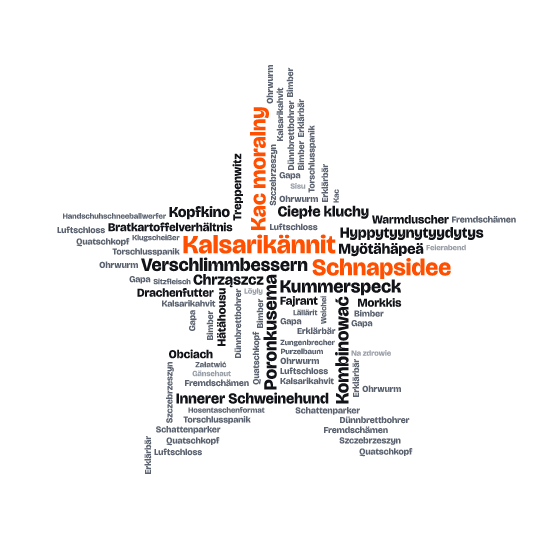
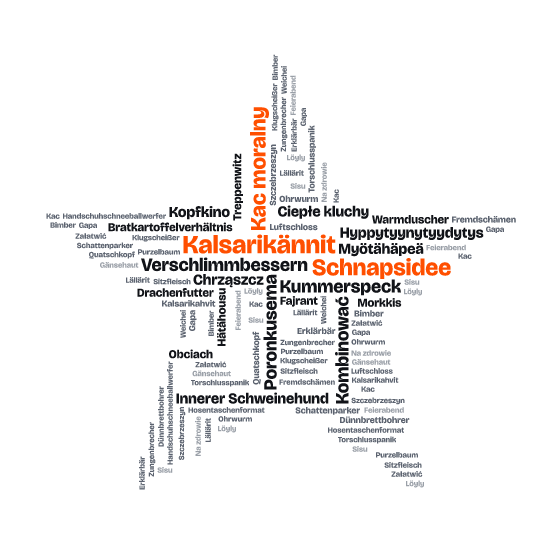
wordcloud 2.0.2: fill copies keep apart and stay smaller than their word

diff --git a/src/layout.rs b/src/layout.rs
@@ -718,6 +718,9 @@ pub fn generate(
 /// that no short word takes over.
 const MAX_COPIES: usize = 4;
 
+/// The largest a copy gets, as a share of its word's size: it reads as an echo, not a twin.
+const COPY_SIZE: f32 = 0.7;
+
 /// The empty grid with the mask's blocked cells set.
 fn blocked_grid(options: &Options, mask: Option<&MaskImage>) -> Grid {
     let (width, height) = options.grid_size();
@@ -799,22 +802,23 @@ impl Packer<'_> {
     }
 
     /// [`Options::fill`]: drop copies of the words into the gaps left after a pass. Only words
-    /// up to the median size are copied, never larger than the word itself, [`MAX_COPIES`] times
-    /// at most. Sizes run from the median down to `min_size`, lightest words first at each
-    /// size; spots are tried from the centre outwards. Returns the bits the copies took.
+    /// up to the median size are copied, [`MAX_COPIES`] times at most, each at [`COPY_SIZE`] of
+    /// the word or smaller and a quarter of the canvas away from the word and its other copies.
+    /// Sizes run from the median down to `min_size`, lightest words first at each size; spots
+    /// are tried from the centre outwards. Returns the bits the copies took.
     fn fill_gaps(&self, grid: &mut Grid, placed: &mut Vec<Placed>, scale: f32) -> Option<u32> {
         let mut relative: Vec<f32> = self.prepared.iter().map(|p| p.relative).collect();
         relative.sort_by(f32::total_cmp);
         let floor = self.options.min_size;
         let median = *relative.get(relative.len() / 2)?;
-        let mut size = (scale * median).max(floor);
+        let mut size = (COPY_SIZE * scale * median).max(floor);
         let spots = Spots::new(grid);
-        // Where each word was set last (top left, grid px): its next copy keeps away from there.
-        let mut last = vec![None; self.prepared.len()];
+        // Where each word and its copies are (top left, grid px): the next copy keeps away from
+        // all of them.
+        let mut set = vec![Vec::new(); self.prepared.len()];
         for word in placed.iter() {
-            last[word.shape] = Some((word.transformation.ox, word.transformation.oy));
+            set[word.shape].push((word.transformation.ox, word.transformation.oy));
         }
-        let mut copies = vec![0; self.prepared.len()];
         let mut bits = 0;
         loop {
             if size < floor {
@@ -822,14 +826,15 @@ impl Packer<'_> {
             }
             // Sweep the words until a whole sweep sets nothing: one copy per word and sweep, so
             // the copies of a word spread out.
-            let mut set = true;
-            while set {
-                set = false;
+            let mut placing = true;
+            while placing {
+                placing = false;
                 for (shape_index, prepared) in self.prepared.iter().enumerate().rev() {
-                    // A copy never outgrows its word, and the heavy words are not copied at all.
-                    if copies[shape_index] == MAX_COPIES
+                    // A copy stays clearly smaller than its word (down to the smallest size), and
+                    // the heavy words are not copied at all.
+                    if set[shape_index].len() > MAX_COPIES
                         || prepared.relative > median
-                        || size > scale * prepared.relative
+                        || size > (COPY_SIZE * scale * prepared.relative).max(floor)
                     {
                         continue;
                     }
@@ -838,14 +843,11 @@ impl Packer<'_> {
                     let first = shape_index % 3 == 1;
                     for rotated in [first, !first] {
                         let sprite = self.sprite(prepared, size, rotated)?;
-                        if let Some(at) = spots.find(grid, &sprite, last[shape_index]) {
-                            let copy = self.settle(grid, &sprite, at, shape_index, true);
-                            last[shape_index] =
-                                Some((copy.transformation.ox, copy.transformation.oy));
-                            placed.push(copy);
-                            copies[shape_index] += 1;
+                        if let Some(at) = spots.find(grid, &sprite, &set[shape_index]) {
+                            set[shape_index].push((at.0 as f32, at.1 as f32));
+                            placed.push(self.settle(grid, &sprite, at, shape_index, true));
                             bits += sprite.ink();
-                            set = true;
+                            placing = true;
                             break;
                         }
                     }
@@ -982,13 +984,8 @@ impl Spots {
     }
 
     /// The first spot where `sprite`, centred on it, lies inside the grid, touches nothing and
-    /// is at least a quarter of the canvas away from `away` (both top left, grid px).
-    fn find(
-        &self,
-        grid: &Grid,
-        sprite: &Sprite,
-        away: Option<(f32, f32)>,
-    ) -> Option<(usize, usize)> {
+    /// is at least a quarter of the canvas away from every point in `away` (top left, grid px).
+    fn find(&self, grid: &Grid, sprite: &Sprite, away: &[(f32, f32)]) -> Option<(usize, usize)> {
         let (width, height) = (grid.width as f32, grid.height as f32);
         let (half_width, half_height) = (sprite.width / 2, sprite.height / 2);
         self.0
@@ -996,7 +993,7 @@ impl Spots {
             .filter_map(|&(x, y)| Some((x.checked_sub(half_width)?, y.checked_sub(half_height)?)))
             .filter(|&(x, y)| x + sprite.width <= grid.width && y + sprite.height <= grid.height)
             .filter(|&(x, y)| {
-                away.is_none_or(|(ax, ay)| {
+                away.iter().all(|&(ax, ay)| {
                     let (dx, dy) = ((x as f32 - ax) / width, (y as f32 - ay) / height);
                     dx * dx + dy * dy >= 0.25 * 0.25
                 })

diff --git a/README.md b/README.md
@@ -71,8 +71,8 @@ wordcloud cloud.toml --shape examples/star.png --width 560 --height 560 --fill
 
 - The picture is black on white: words go where it is dark. `--invert` swaps that.
 - It is stretched to the canvas, so give the canvas the picture's proportions.
-- `--fill` copies the lighter words into the gaps, small, up to four times each. That fills
-  the shape into its corners.
+- `--fill` copies the lighter words into the gaps: smaller than the word, up to four times
+  each, the copies far apart. That fills the shape into its corners.
 - In the list: `shape = "star.png"`, relative to the list.
 
 ## Weights
@@ -102,7 +102,7 @@ Copy [`examples/profile-workflow.yml`](examples/profile-workflow.yml) into your 
 ## Library
 
 ```toml
-wordcloud = { git = "https://github.com/mborejdo/wordcloud", tag = "v2.0.1", default-features = false }
+wordcloud = { git = "https://github.com/mborejdo/wordcloud", tag = "v2.0.2", default-features = false }
 ```
 
 ```rust

diff --git a/CHANGELOG.md b/CHANGELOG.md
@@ -3,6 +3,14 @@
 Format: [Keep a Changelog](https://keepachangelog.com/en/1.1.0/). Versions follow semver; a
 change that moves words for the same list and seed counts as breaking.
 
+## 2.0.2 - 2026-11-16
+
+### Fixed
+
+- `fill`: a copy keeps away from its word and from all its other copies (it only kept away
+  from the last one, so two could sit side by side), and is at most 70% of the word's size
+  (it could be a twin). Layouts with `fill` move; layouts without it do not.
+
 ## 2.0.1 - 2026-11-16
 
 ### Fixed
